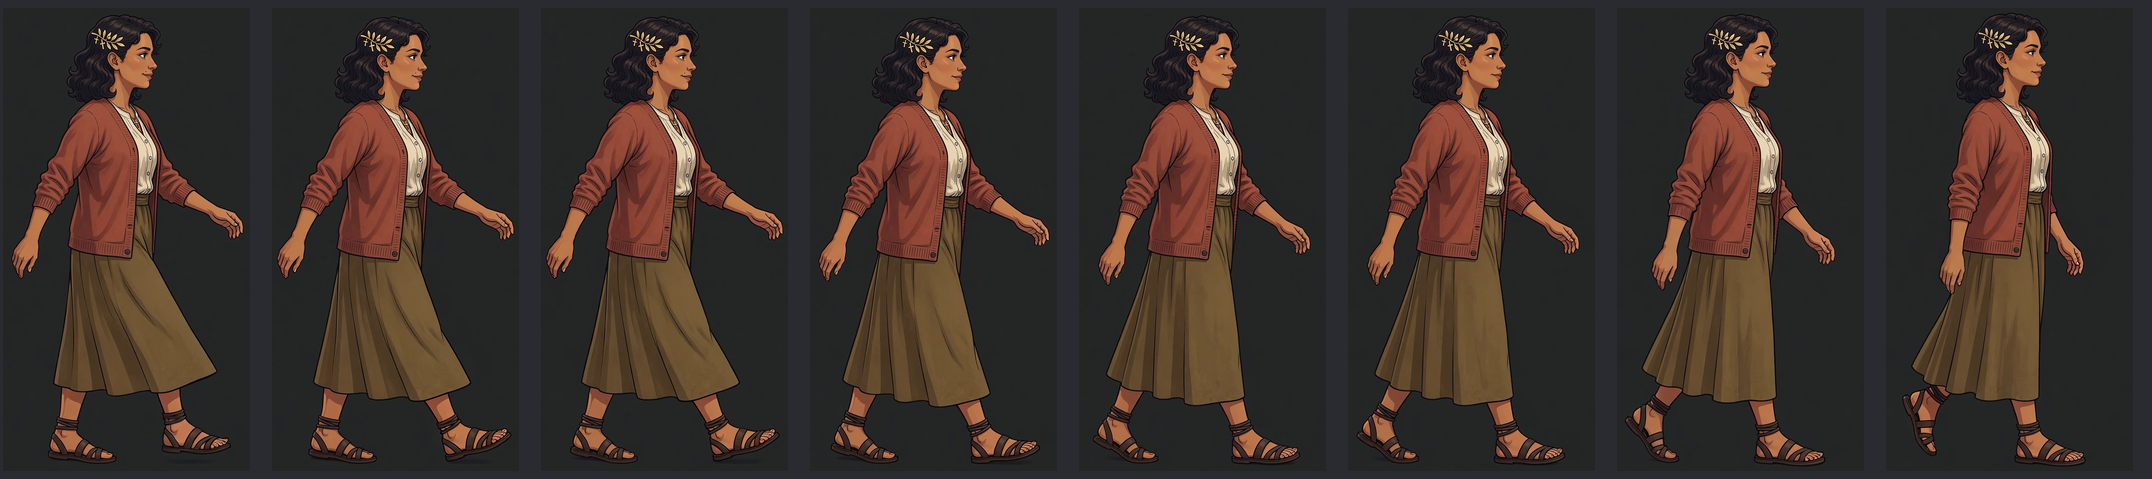
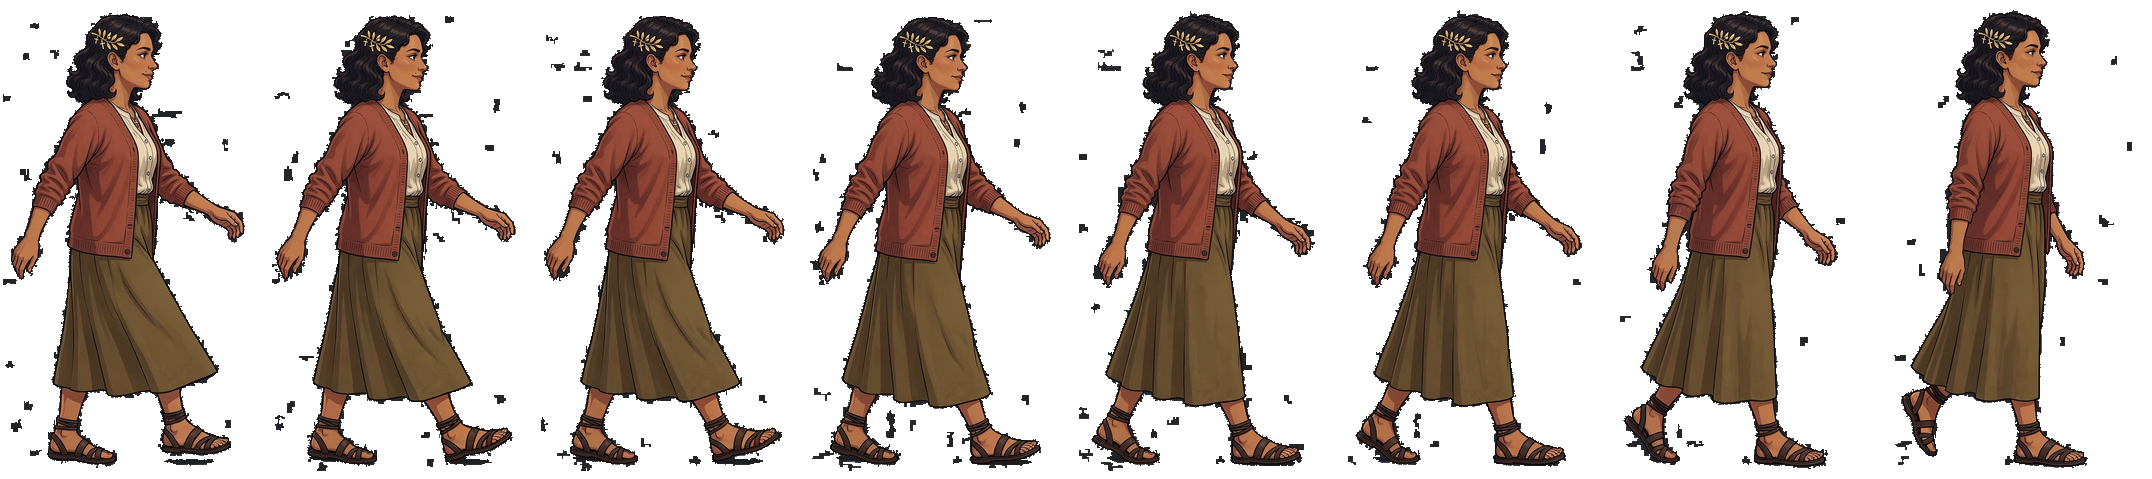
fix: knock the grey boxes off the walkers so they stand on the road.

diff --git a/test/tablets.test.js b/test/tablets.test.js
@@ -421,7 +421,7 @@ ok("walker walks onto tablet pins", !/if \(to && to\.kind === "tablets"\) \{\s*s
 ok("timeout copy names the sand", /The sand ran out\. The blank stayed empty when the Hold closed/.test(
   fs.readFileSync(path.join(ROOT, "js", "director.js"), "utf8")));
 ok("brief names the chapter clock", /clockS/.test(fs.readFileSync(path.join(ROOT, "js", "briefs.js"), "utf8")));
-ok("cache is 1.8.51", /ctv-v1\.8\.51/.test(fs.readFileSync(path.join(ROOT, "sw.js"), "utf8")));
+ok("cache is 1.8.52", /ctv-v1\.8\.52/.test(fs.readFileSync(path.join(ROOT, "sw.js"), "utf8")));
 ok("Hold fonts include Cinzel Decorative and Inter", /Cinzel\+Decorative/.test(html) && /family=Inter/.test(html));
 ok("the Hold does not paint god-rays", !/tabletsFx\.rays/.test(src));
 ok("the Hold has no screen wash overlay", !/#v-tablets:after/.test(fs.readFileSync(path.join(ROOT, "css", "tablets.css"), "utf8")));

diff --git a/sw.js b/sw.js
@@ -12,7 +12,7 @@
       stale cache eviction.
    ================================================================== */
 
-const CACHE_VERSION = "ctv-v1.8.51";
+const CACHE_VERSION = "ctv-v1.8.52";
 const CACHE_NAME = "ctv-shell-" + CACHE_VERSION;
 const AUDIO_CACHE = "ctv-audio-" + CACHE_VERSION;
 const MAX_AUDIO_ENTRIES = 25;
